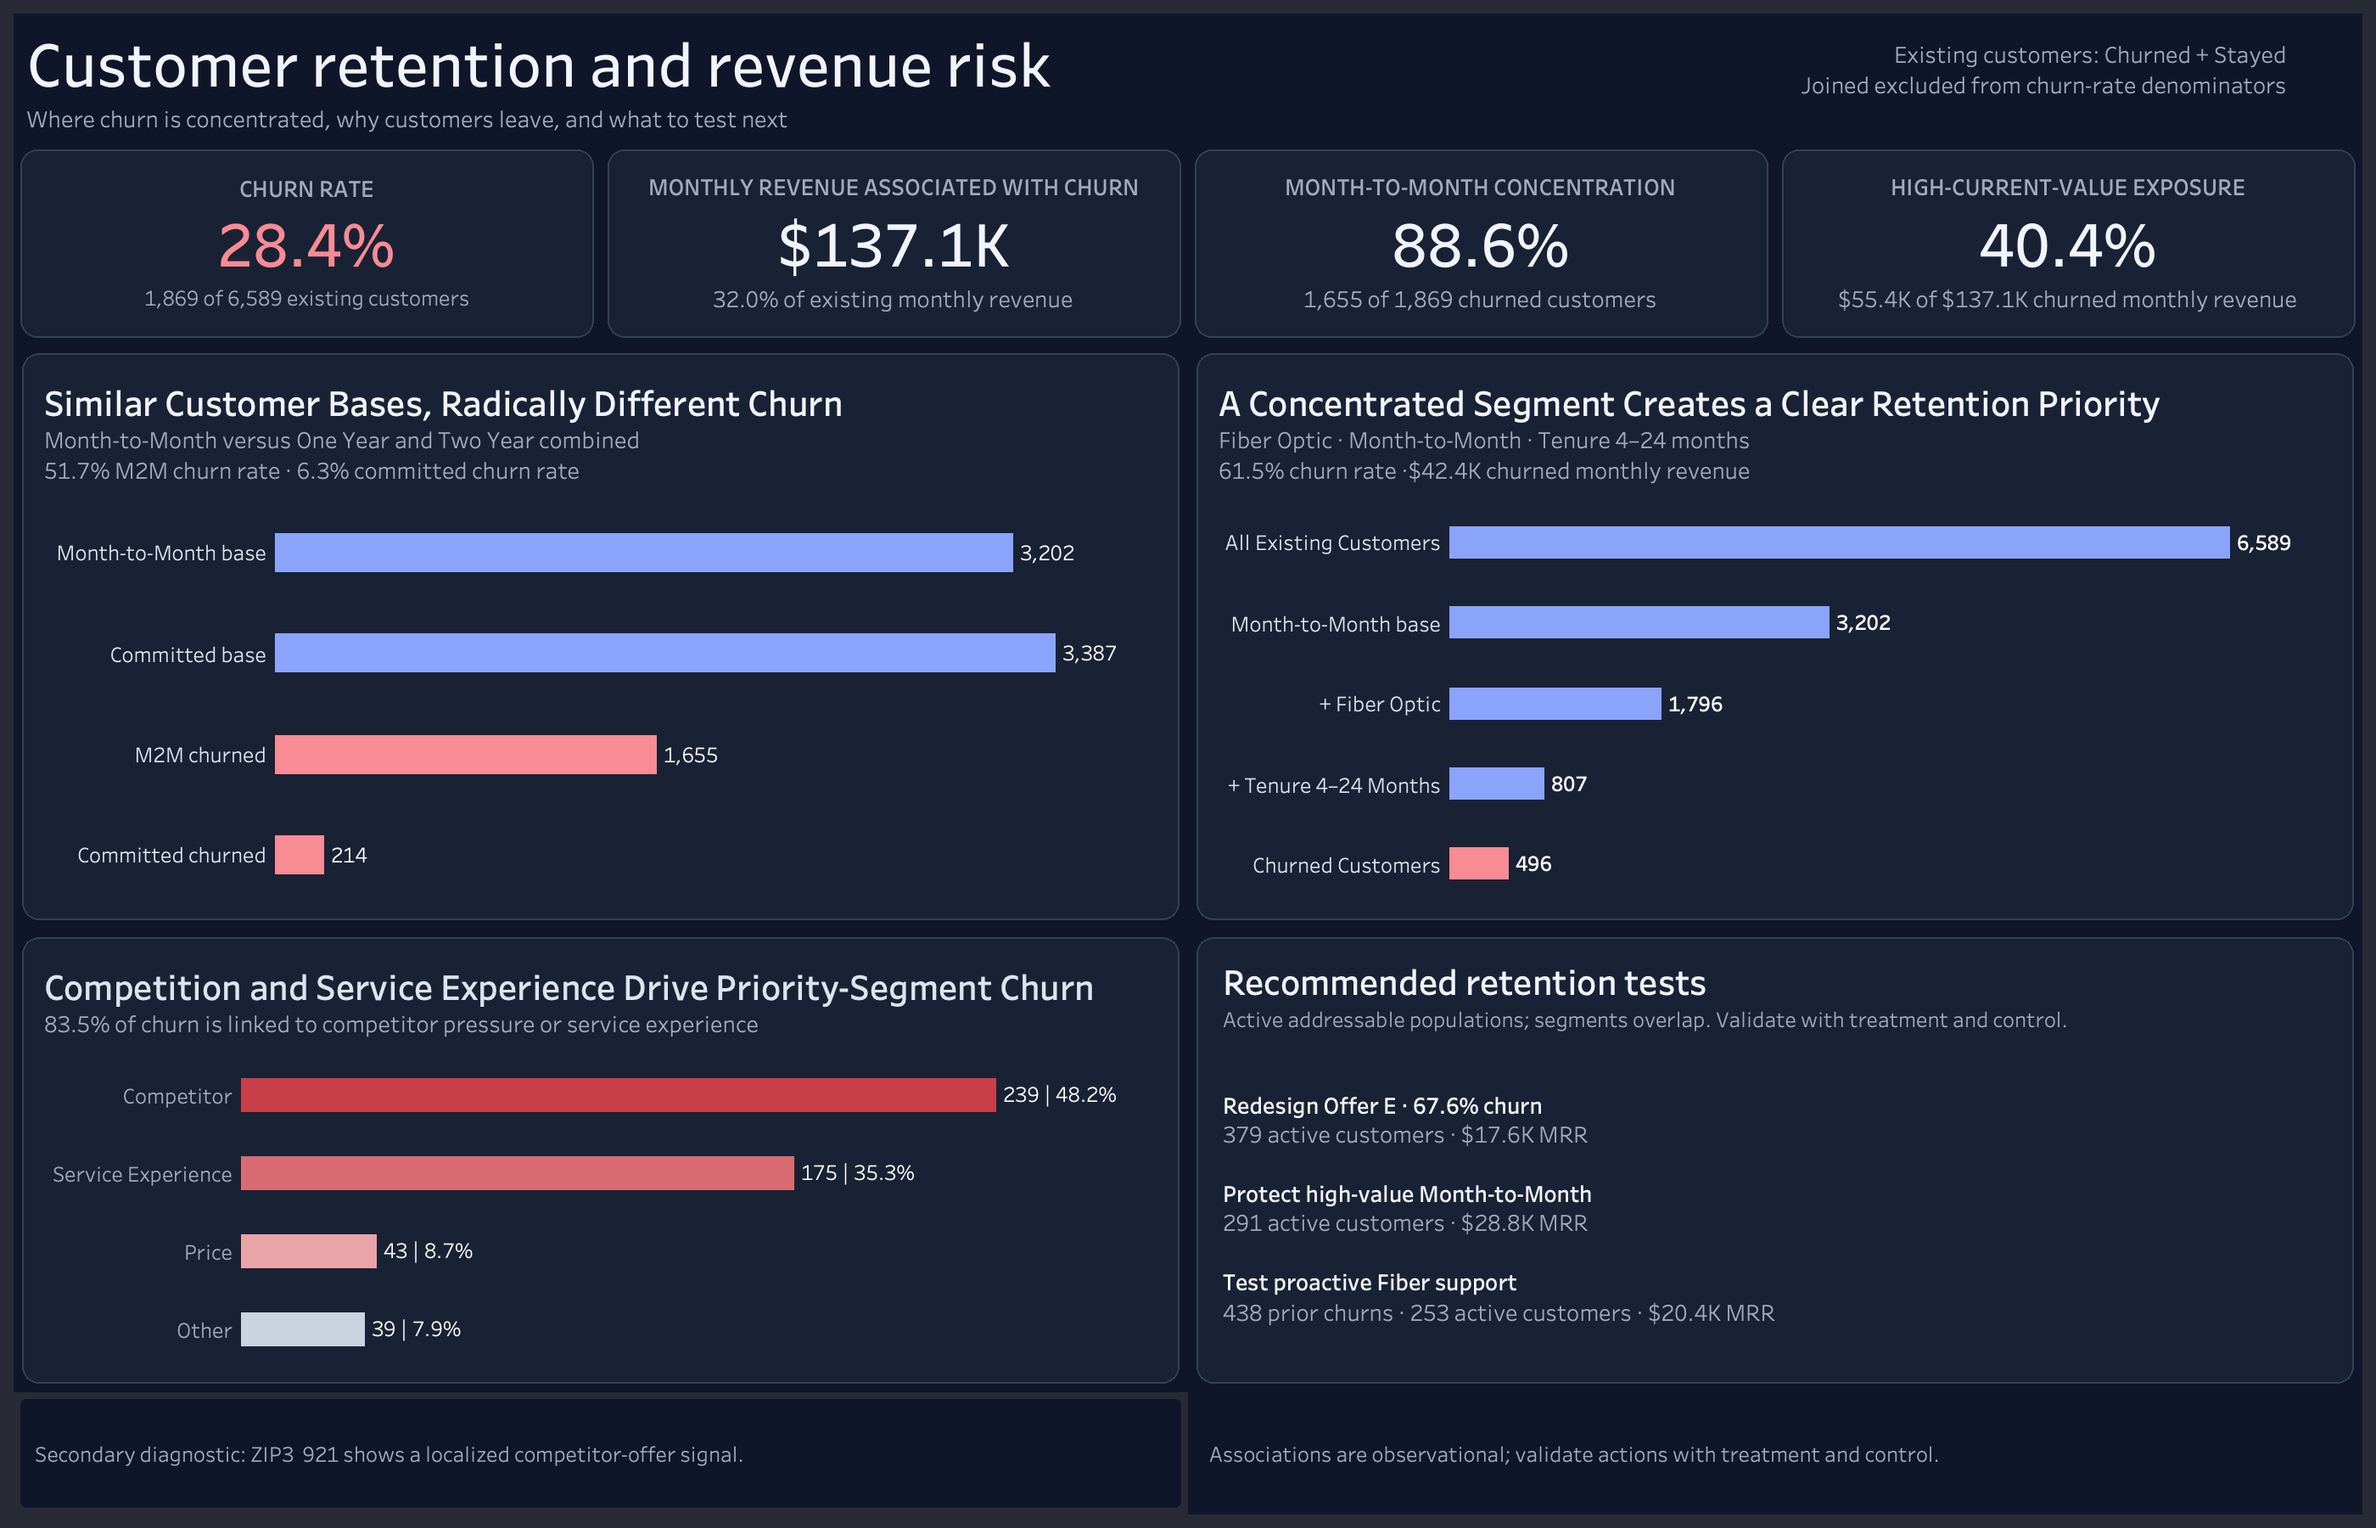
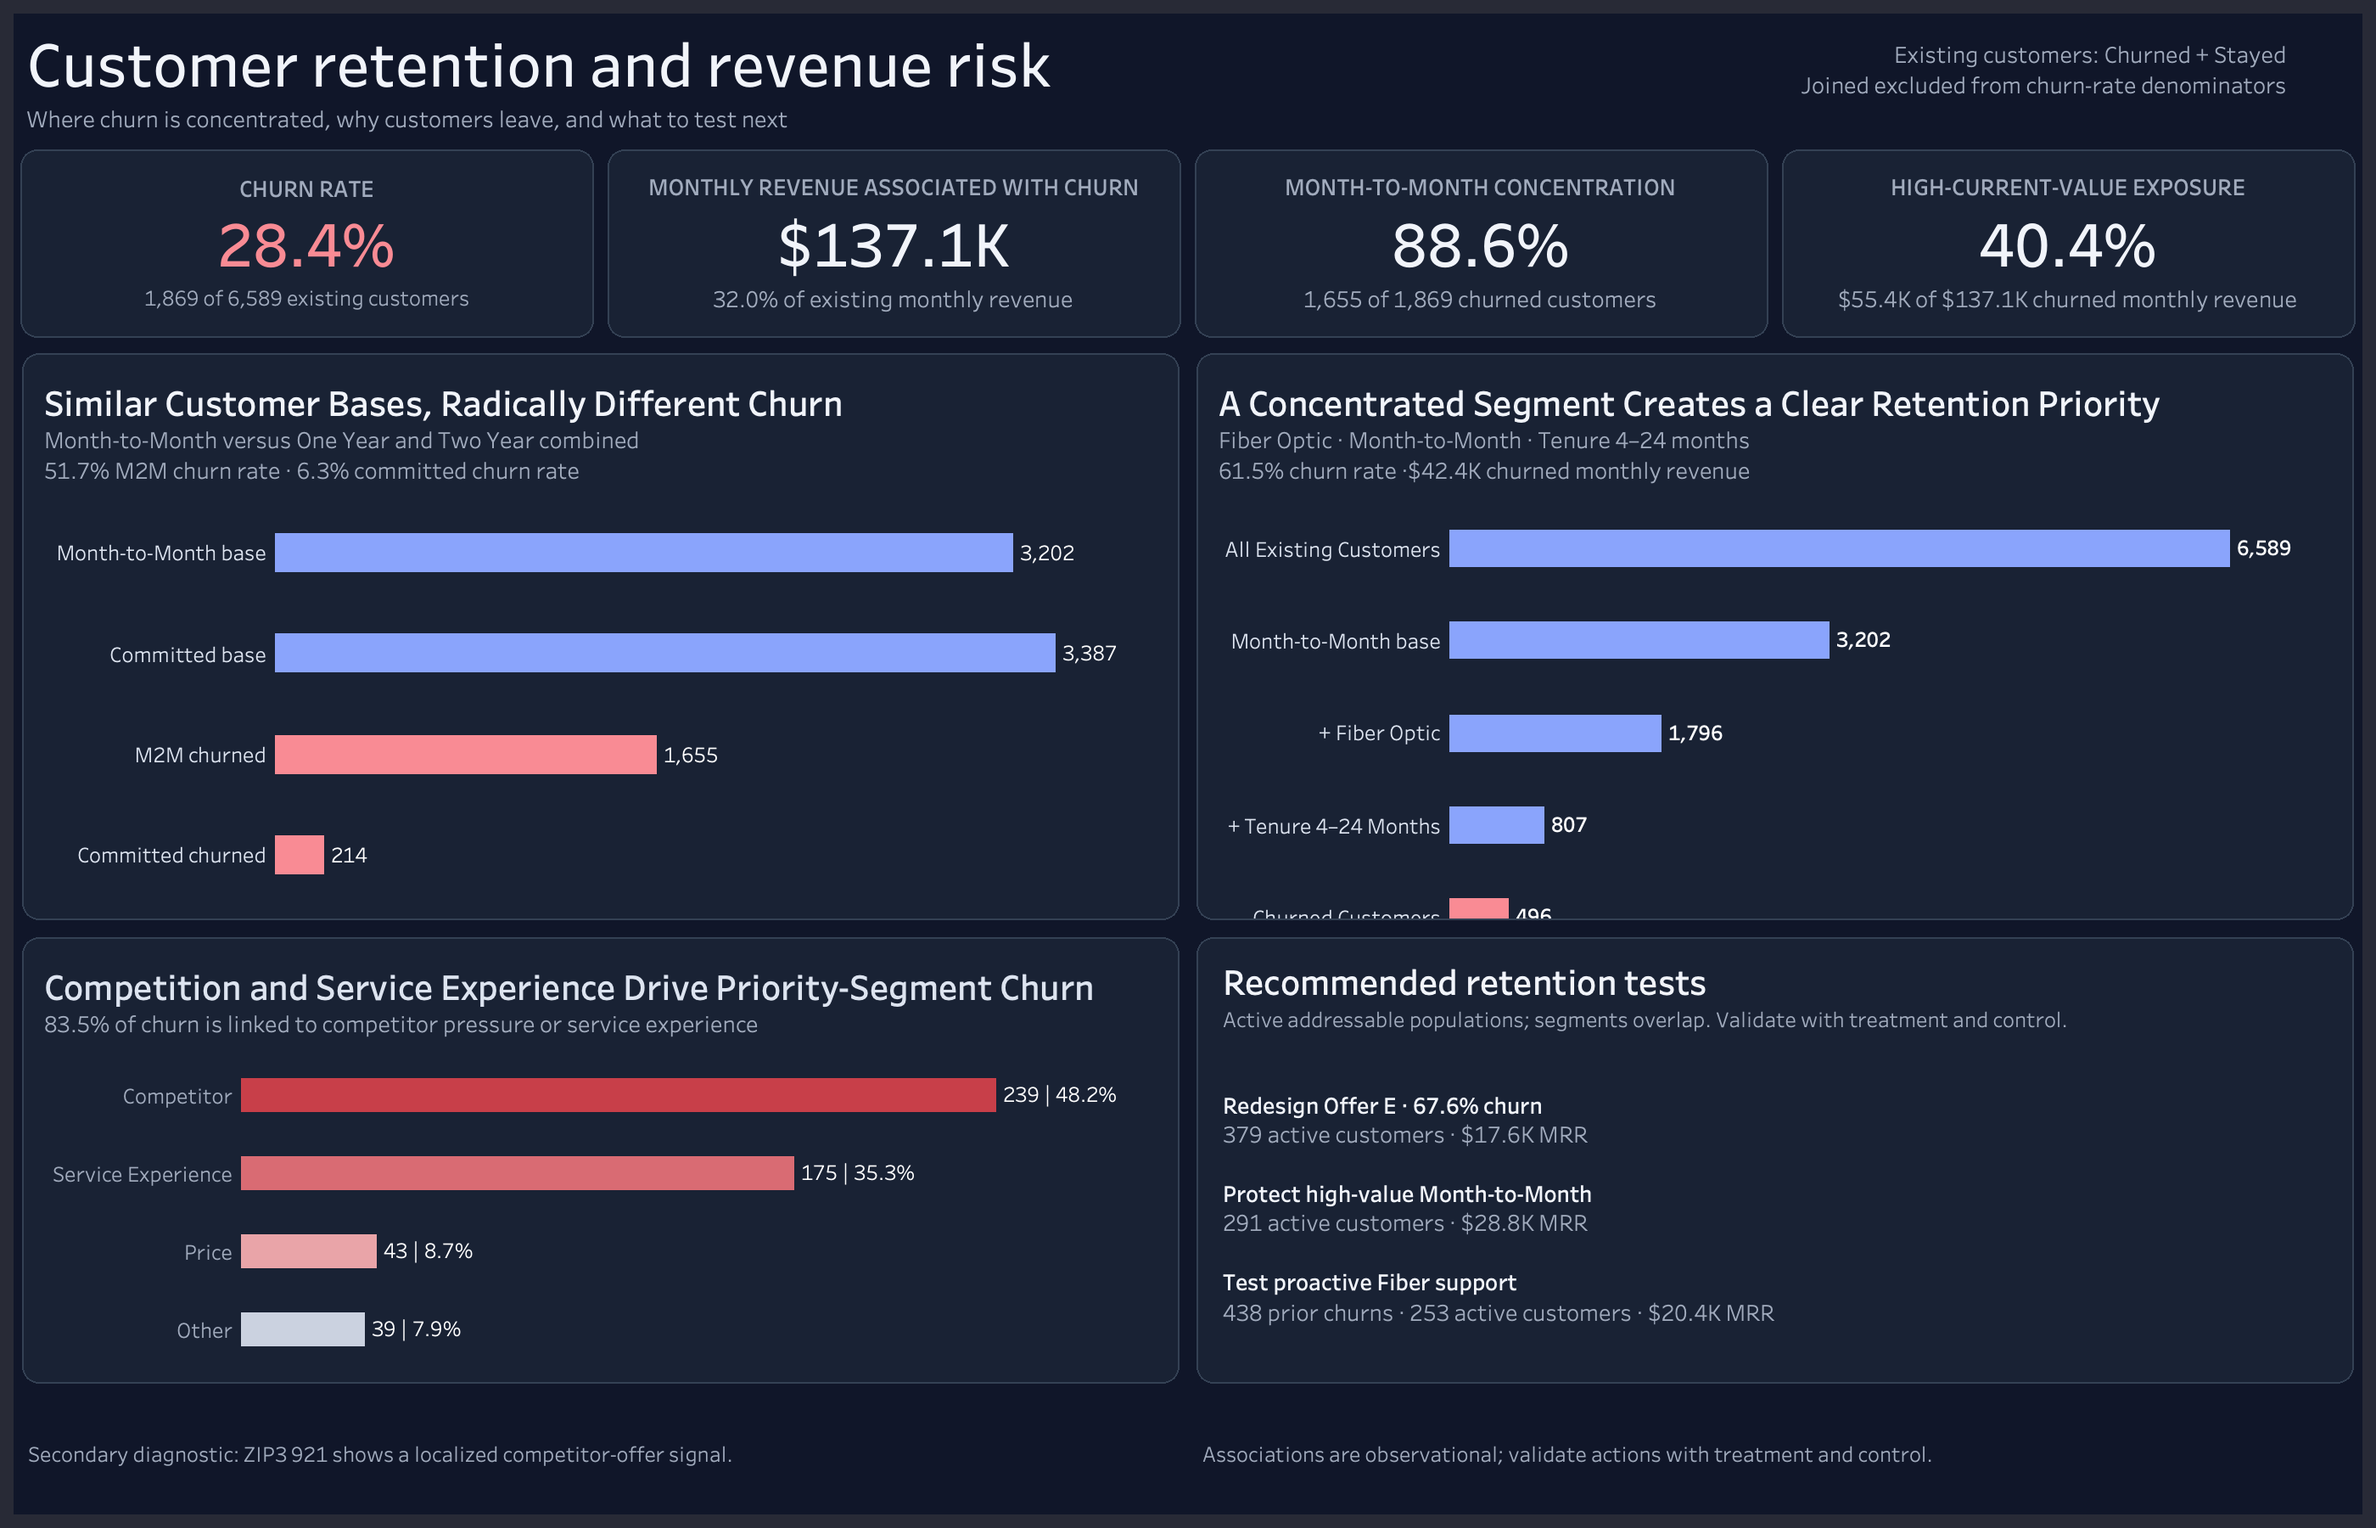
fix: unify dashboard footer styling

Changed region(s): [[0.5282, 0.3422, 0.9632, 0.6222], [0.4971, 0.9333, 0.8079, 0.9644], [0.0311, 0.9333, 0.3107, 0.9644]]

diff --git a/README.md b/README.md
@@ -2,9 +2,7 @@
 
 [![tests](https://github.com/Danaamantini/telecom-customer-churn/actions/workflows/tests.yml/badge.svg)](https://github.com/Danaamantini/telecom-customer-churn/actions/workflows/tests.yml)
 [![Python](https://img.shields.io/badge/Python-3.12%2B-3776AB)](https://www.python.org/)
-[![DuckDB](https://img.shields.io/badge/SQL-DuckDB-FFF000)](https://duckdb.org/)
 [![Tableau](https://img.shields.io/badge/Dashboard-Tableau-E97627)](dashboard/README.md)
-[![License: MIT](https://img.shields.io/badge/License-MIT-yellow.svg)](LICENSE)
 
 Reproducible customer-churn analysis for a fictional California telecom
 provider. Python prepares and validates the data, DuckDB reproduces the
